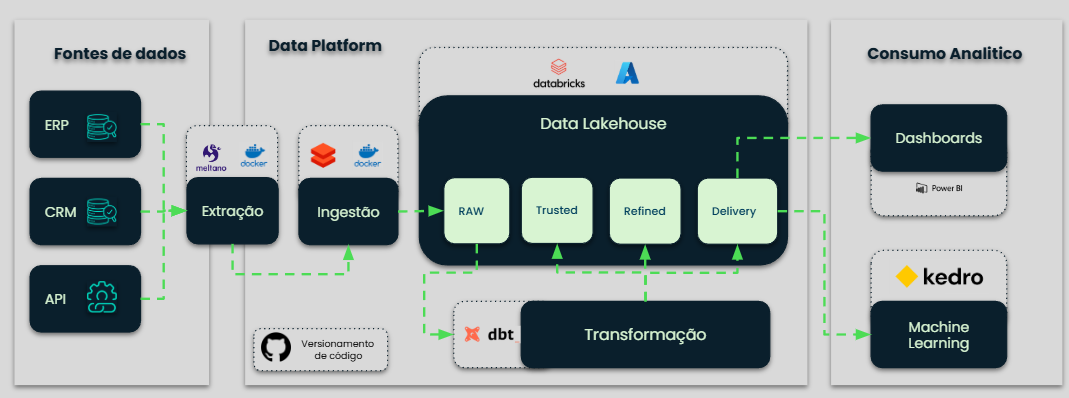
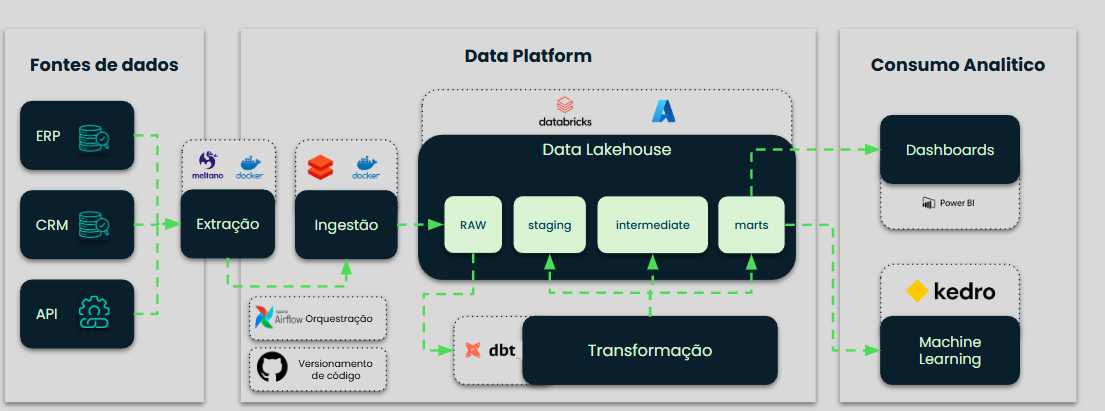
Documentação final - checkpoint 3

diff --git a/README.md b/README.md
@@ -1,8 +1,8 @@
-# [LH20253] Checkpoint 2: Adventure Works - Infraestrutura e Ingestão
+# [LH20253] Adventure Works
 
-Este projeto consiste na construção de um pipeline de dados para extração de dados da **Adventure Works** de um banco de dados SQL Server e uma API Rest e o processo de ingestão no **Databricks** em tabelas Delta.
+Este projeto consiste na construção de uma infraestrutura moderna de dados da **Adventure Works** contendo o processo de extração dos dados de um banco de dados SQL Server e uma API Rest usando o **Meltano**, o processo de ingestão no **Databricks** em tabelas Delta com **Databricks CLI**, transformação dos dados usando **dbt** todo o processo deve ser orquestrado com o **airflow** (em construção, atualmente somente a extração e ingestão estão orquestradas)
 
-No projeto é contem a conteinerização com **Docker**, extração com **Meltano**, ingestão com **Databricks CLI** e transformação via workflow no **Databricks**.
+A documentação do dbt está disponível no seguinte link: [Documentação dbt](https://687c96d669f98dfac1922f28--merry-starship-171e7c.netlify.app/)
 
 **Pré-requisitos:**
 
@@ -12,27 +12,67 @@ No projeto é contem a conteinerização com **Docker**, extração com **Meltan
 - Acesso ao Databricks
 - Acesso ao banco de dados da Adventure Works
 - Acesso à API da Adventure Works
+- Python 3.10
 
 **Estrutura de pastas**
 
 ```shell
 aw-checkpoint2/
-├── .env.example                  # Exemplo das variáveis de ambiente utilizadas no projeto
-├── .gitignore                    # Define os arquivos e pastas ignorados pelo Git
-├── README.md                     # Documentação principal do projeto
-├── docker-compose.yml            # Pipeline de extração e ingestão usando Docker Compose
-├── meltano.yml                   # Arquivo de configuração do Meltano
-├── plugins/                      # Diretório contendo os plugins do Meltano
-│   ├── extractors/               # Configurações das taps (fontes de dados)
-│   └── loaders/                  # Configurações dos targets (destinos dos dados)
-├── Notebook/                     # Notebooks utilizados no Databricks
-│   └── convert_parquet_to_delta.ipynb  # Notebook para conversão de Parquet em Delta Table
-├── output/                       # Arquivos Parquet gerados após a extração
-└── schemas/                      # Schemas utilizados para validar os dados da API
-    ├── purchaseorderdetail.json
-    ├── purchaseorderheader.json
-    ├── salesorderdetail.json
-    └── salesorderheader.json
+
+└── config/                           # Pasta de configurações gerais do Airflow 
+    └──  airflow.cfg                  # Arquivo de configuração Airflow
+├── dags/                             # Pasta contendo as Dags para a orquestração usando o Airflow
+    ├── utils/                        # Funções customizadas para a orquestração
+        └── general_helpers.py        # Arquivo .py contendo as funções customizadas 
+    └── dag_extract_raw_data.py       # Arquivo .py contendo a Dag de extração e ingestão
+├── dbt/                              # Pasta contendo o projeto dbt para transformações dos dados
+    ├── aw_project_dbt/               # Projeto dbt
+        ├── analyses/        
+        ├── docs-dbt/                 # Arquivos para gerar a documentação do dbt
+        ├── logs/                     # Pasta de logs do dbt interna
+        └── macros/                   # Pasta contendo as macros
+            ├── custom_schema.sql          # Macro para customizar o nome da tabela gerada no DW
+            ├── not_negative_values.sql    # Macro contendo o test referente a valores negativos
+            └── test_due_date_after_order_date.sql  # Macro contendo o test referente a datas invalidas
+        ├── models/                   # Modelos de transformações dbt
+            ├── 1_staging/            # Pasta com os arquivos de transformações referente a camada staging
+            ├── 2_intermediate/       # Pasta com os arquivos de transformações referente a camada intermediate
+            └── 3_marts/              # Pasta com os arquivos de transformações referente a camada marts
+        ├── seeds/
+        ├── snapshots/                # Pasta com os arquivos necessários para a Snapshot
+            └── snp_status_sales.sql  # Snapshot de atualização de status de pedido
+        ├── tests/
+        ├── .env-example-dbt          # Arquivo de exemplo de .env para o dbt
+        ├── dbt_project.yml           # Arquivo de definição do projeto dbt
+        ├── package-lock.yml          # Arquivo de definição de dependencias do dbt
+        ├── packages.yml              # Arquivo de definição de dependencias do dbt
+        └── profiles.yml              # Arquivo de definição das variáveis de ambiente do dbt
+    └── logs/                         # Pasta de logs do dbt externa
+├── imgs/                             # Imagens usadas no read.me
+├── meltano/    
+    ├── .env.example-meltano          # Exemplo das variáveis de ambiente utilizadas no Meltano
+    ├── docker-compose.yml-legado     # Pipeline de extração e ingestão usando Docker Compose Checkpoint 2
+    ├── meltano.yml                   # Arquivo de configuração do Meltano
+    ├── plugins/                      # Diretório contendo os plugins do Meltano
+        ├── extractors/               # Configurações das taps (fontes de dados)
+        └── loaders/                  # Configurações dos targets (destinos dos dados)
+    ├── output/                       # Arquivos Parquet gerados após a extração caso feita de forma manual
+    └── catalogs/                     # Arquivos de discovery do Meltano
+        ├── catalog_tap_mssql.json          
+        └── catalog_tap_rest_api_msdk.json
+    └── schemas/                      # Schemas utilizados para validar os dados da API
+        ├── purchaseorderdetail.json
+        ├── purchaseorderheader.json
+        ├── salesorderdetail.json
+        └── salesorderheader.json
+├── Notebooks/                          # Notebooks utilizados no Databricks
+    └── convert_parquet_to_delta.ipynb  # Notebook para conversão de Parquet em Delta Table
+├── plugins/                            # Pasta para plugins do Airflow
+├── .env.example-airflow                # Arquivo contendo um exemplo de arquivo .env para o airflow
+├── docker-compose.yaml                 # Docker compose para o uso do Airflow
+├── README.md                           # Documentação principal do projeto
+└── requirements.txt                    # Arquivos de dependencias Python
+
 ```
 
 ## Arquitetura Geral do Projeto
@@ -44,23 +84,80 @@ aw-checkpoint2/
 
 ### 1. Instalação e Requisitos
 
-Clone o repositório
+Abra o  terminal de sua preferencia para executar os comandos abaixo
+- Para construção do projeto utilizei o terminal `Git Bash` no Windows,
+porem, não é uma dependencia, existe a possibilidade de que a execução de 
+alguns codigos podem mudar dependendo do SO.
+
+**Clone o repositório**
 ```bash
 git clone git@github.com:AurelioSilvaLH/aw-checkpoint2.git
 ```
 
-### 2. Configurar variáveis de ambiente
+**Vá para a pasta do projeto**
+```bash
+cd aw-checkpoint2
+```
 
-Faça uma cópia do arquivo `.env.example` e renomeie para `.env`:
+**Crie e ative um ambiente virtual Python**
 
 ```bash
-cp .env.example .env
+# crie a .venv
+python -m venv .venv
+
+# Windows
+source .venv/Scripts/activate
+
+# Linux
+source .venv/bin/activate
 ```
-Em seguida edite o arquivo .env preenchendo com as credenciais necessárias para:
+**Instale as bibliotecas python necessárias**
+
+```bash
+pip install -r requirements.txt
+```
+
+
+### 2. Configurar variáveis de ambiente
+
+⚠ Existem **3** arquivos em que são necessários configurar as variáveis de ambiente.
+
+* `.env.example-meltano`
+* `.env.example-dbt`  
+* `.env.example-airflow`  
+
+É necessário fazer uma cópia dos arquivos `.env.example` e renomeie para `.env` dentro de suas respectivas pastas.
+
+É possivel efetuar esse processo via terminal, porem é preciso cautela para garantir a criação correta dos arquivos
+
+```bash
+# .env airflow
+cp .env.example-airflow .env
+
+# .env meltano
+cd meltano
+cp .env.example-meltano .env
+
+# Retornar para a pasta principal
+cd ..
+
+# .env dbt
+cd dbt
+cd aw_project_dbt
+cp .env.example-dbt .env
+```
+
+Em seguida edite todos os arquivos .env criados preenchendo com 
+as credenciais necessárias para:
 - Acesso ao banco de dados SQL Server
 - Acesso à API 
 - Configurações de acesso do Databricks CLI.
+- MELTANO_PROJECT_HOST_PATH: Caminho completo para a pasta do Meltano do projeto
+- Para obter o AIRFLOW_UID=uid você pode executar o comando após iniciar o Airflow.
 
+```bash
+ echo -e "AIRFLOW_UID=$(id -u)" 
+```
 ⚠ Caso não possua um token do Databricks, gere um novo acessando: 
 
 Menu superior direito no Databricks (seu usuário) →  Settings 
@@ -89,33 +186,84 @@ Job runs → Create job:
 
 → Clique em Create task
 
-4 - Copie o Job ID criado na task e adicione-o no arquivo .env no campo:
+4 - Copie o Job ID criado na task e adicione-o no arquivo .env do Airflow no campo:
 
 ```
 DATABRICKS_JOB_ID=seu_job_id
 ```
 5 - Crie uma pasta com nome **`raw`** dentro do seu schema no Databricks. Essa pasta será utilizada para armazenar os arquivos Parquet extraídos antes da conversão para Delta Table.
 
-### 4. Executar o Pipeline
+### 4. Iniciar o Airflow
 
 Esteja com o terminal apontado para a pasta **aw-checkpoint2**
 
 ```bash
  cd aw-checkpoint2
 ```
-Com todas as configurações realizadas, execute o pipeline completo:
+Com todas as configurações realizadas, execute o pipeline de extração:
 ```bash
-docker-compose up
+# Inicie o Airflow
+docker compose up airflow-init
+
+# Suba os Airflow para o localhost
+docker-compose up -d
 ```
 
-**Este comando irá:**
+**Estes comando irá:**
 
 1 - Baixar as imagens Docker necessárias
 2 - Construir os containers necessários
-3 - Executar o Meltano para extrair dados do banco de dados SQL Server e API
-4 - Salvar os dados em formato Parquet na pasta output/
-5 - Fazer upload dos arquivos para o Databricks com CLI
-6 - Executar o job do Databricks para converter para Delta Tables
+3 - Executar as instações necessárias para o Airflow
+
+Acesse o Airflow em seu localhost: http://localhost:8080/
+O usuário e senha padrão são "airflow" "airflow"
+
+### 5. Dags
+
+A DAG: `Extract_raw_data_to_databricks` esta com um agendamento diário para as 00:00 UTC
+Porem é possivel executa-la apertando no botão `TRIGGER`
+
+![dag_1](dag_1.png)
+
+### 6. Transformações com o dbt
+
+Para executar o projeto dbt seguir os seguintes comandos.
+
+Esteja com o terminal apontado para a pasta **aw_project_dbt**
+
+```bash
+# Pasta dbt
+ cd dbt
+
+# Pasta aw_project_dbt
+ cd aw_project_dbt
+```
+Verifique se as configurações de acesso estão devidamente configuradas no .env respectivo do dbt
+
+```bash
+ dbt debug
+```
+
+Instale as dependencias do dbt (packages)
+```bash
+# Instale as dependencias
+dbt deps
+```
+
+Execute os modelos
+```bash
+# Executar todos os modelos
+dbt run
+
+# Executar um modelo especifico
+dbt run -s nome_do_modelo
+```
+Execute os testes configurados
+```bash
+dbt test
+```
+A documentação do dbt está disponível no seguinte link: [Documentação dbt](https://687c96d669f98dfac1922f28--merry-starship-171e7c.netlify.app/)
+
 
 ## Para futuros desenvolvimentos
 
@@ -124,6 +272,9 @@ docker-compose up
 * Push para a branch (git push origin feature/nova-feature)
 * Abra um Pull Request
 
-## Gitflow
+## Gitflow V1 (Checkpoint 2) - Extração e Ingestão
 
-![Gitflow](imgs/gitflow.png)
+![Gitflow](imgs/gitflow_v1.png)
+
+## Gitflow V1 (Checkpoint 3) - Orquestração e Modelagem
+![Gitflow](imgs/gitflow_v2.png)
